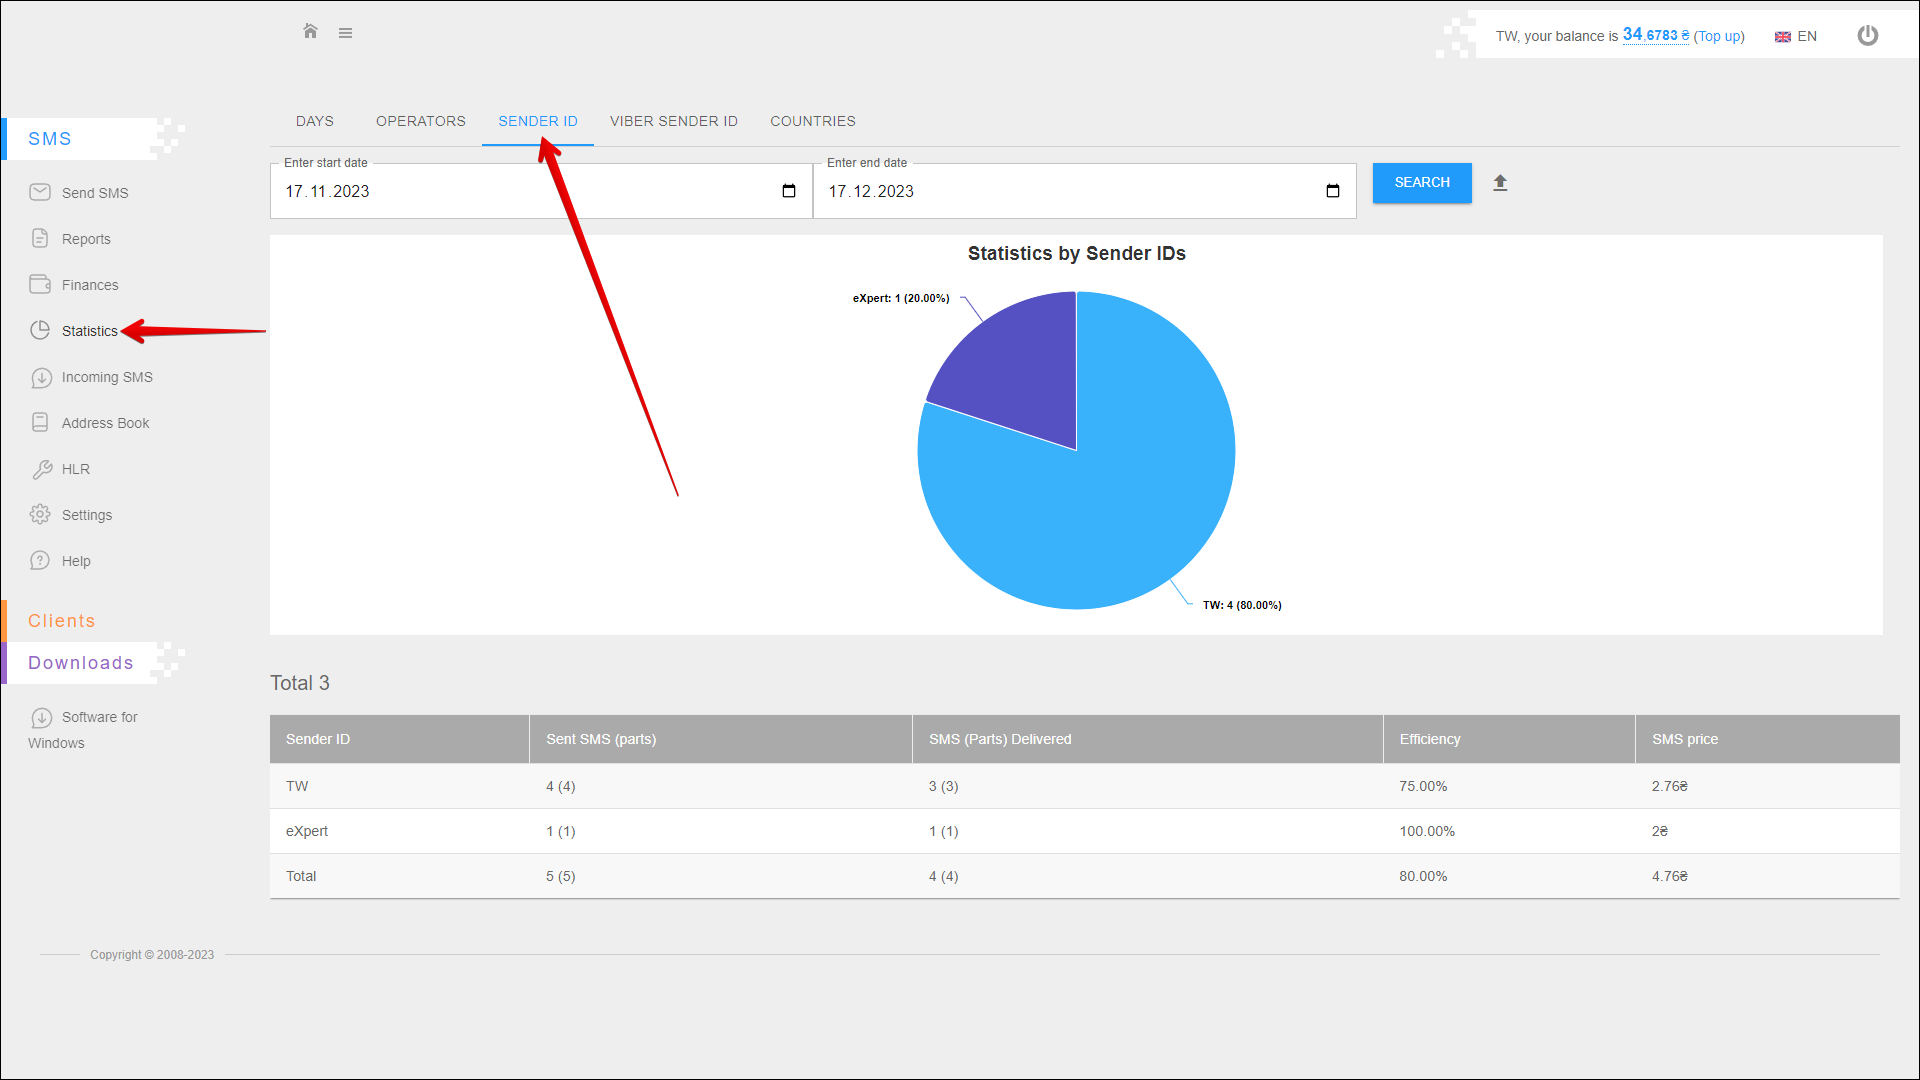
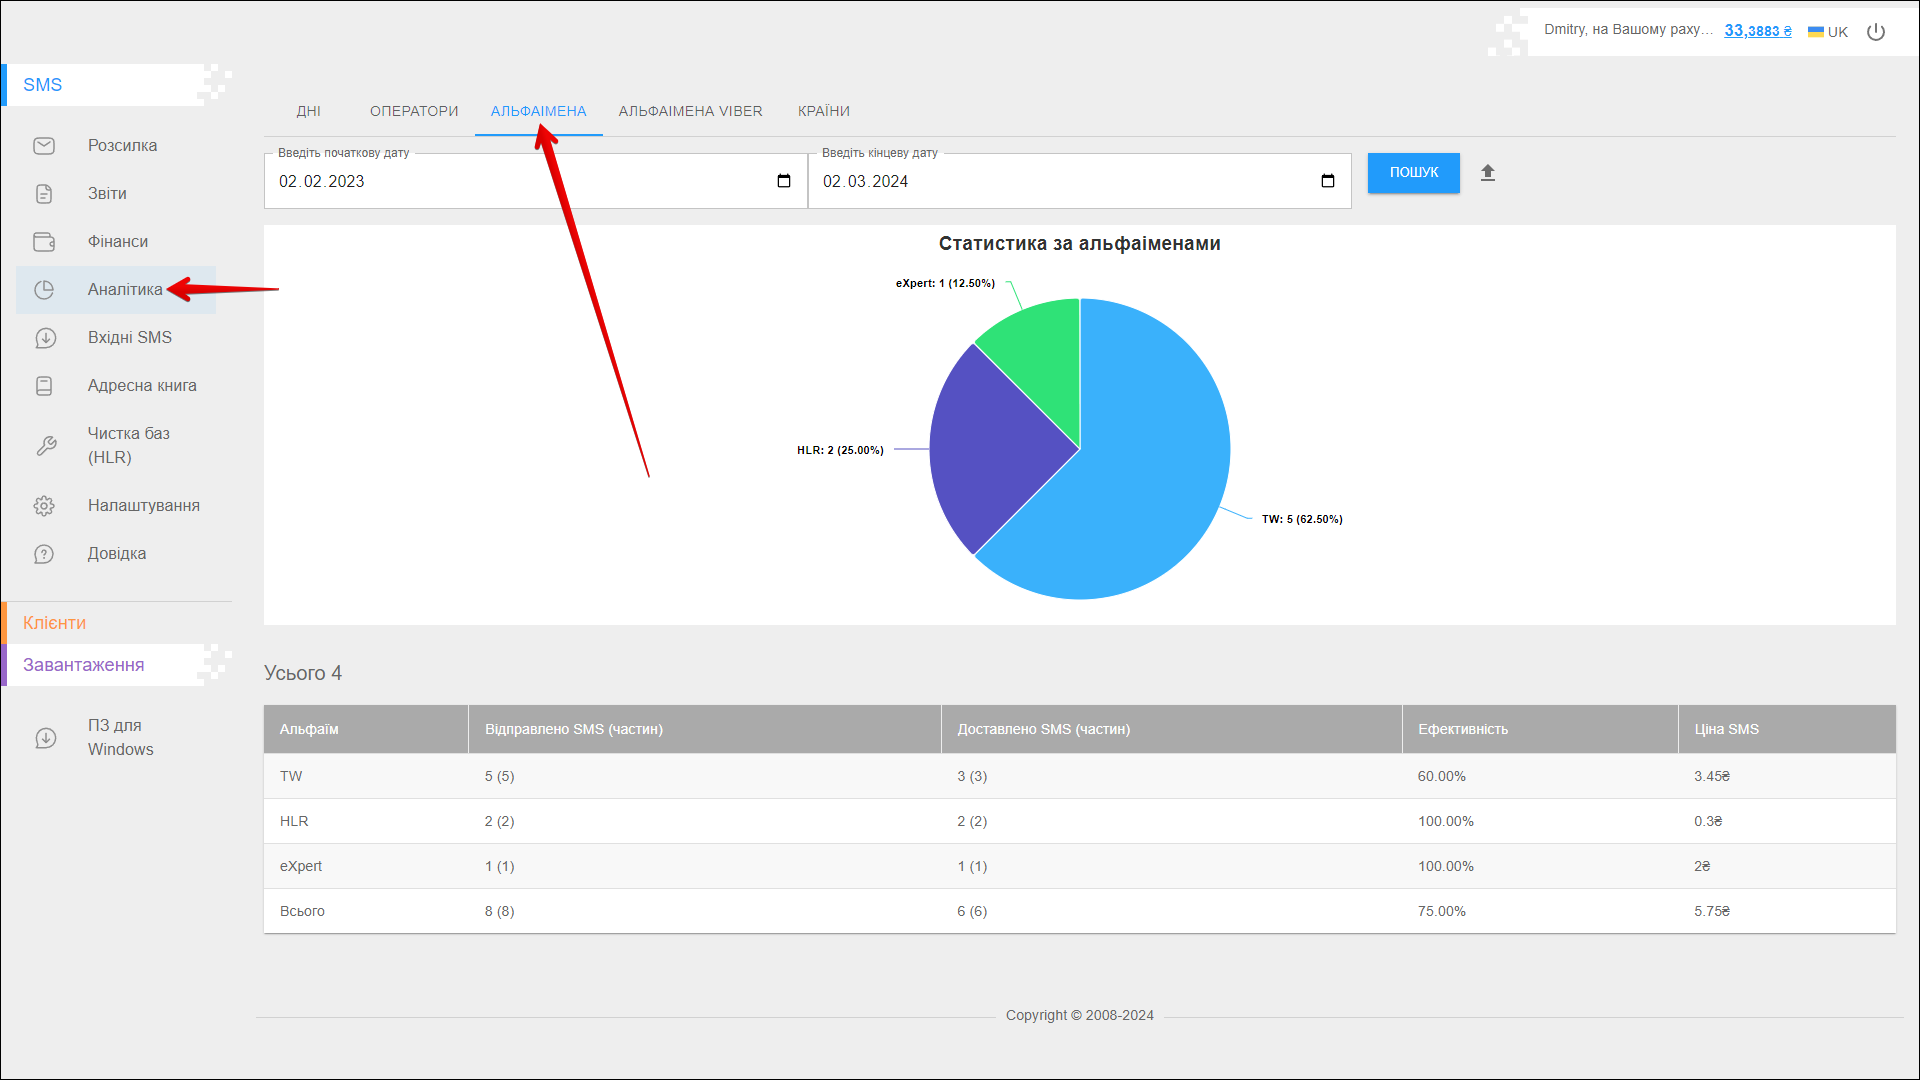
+ SMS-Аналітика-Альфаімена

diff --git a/i18n/uk/docusaurus-plugin-content-docs/current/instruction/sms/statistics/sender_id_statistics.md b/i18n/uk/docusaurus-plugin-content-docs/current/instruction/sms/statistics/sender_id_statistics.md
@@ -3,3 +3,54 @@ id: sender_id_statistics
 title: Альфаімена
 slug: /sender_id_statistics
 ---
+
+У цій вкладці ви можете переглянути статистику по іменам відправника (альфаіменам), а також перевірити ефективність розсилки.
+
+Щоб відкрити дану вкладку, виберіть **SMS** → **Аналітика** у боковому меню та перейдіть на вкладку **АЛЬФАІМЕНА**.
+
+![image1](/img/uk/sms_statistics_sender_id/image1.png)
+
+## Вибір періоду
+
+Щоб вибрати **Період**, за який ви хочете відображати статистику, виконайте наведені нижче дії:
+
+|  №  | Дія |
+| :-: | --- |
+| 1 | Введіть **Початкову дату**. Ви можете ввести дату вручну або вибрати її в календарі, для цього натисніть на іконку **Календар** в правій частині поля |
+| 2 | Введіть **Кінцеву дату**. Ви можете ввести дату вручну або вибрати її в календарі, для цього натисніть на іконку **Календар** в правій частині поля |
+
+Після вибору дати натисніть кнопку **ПОШУК**. Сторінка оновиться, щоб відобразити статистику за вказаний період.
+
+![image2](/img/uk/sms_statistics_sender_id/image2.png)
+
+## Експорт звіту
+
+Щоб експортувати статистичну звітність, натисніть на іконку кнопки **Експорт** праворуч від кнопки **ПОШУК**.
+
+![image3](/img/uk/sms_statistics_sender_id/image3.png)
+
+Відкриється нове спливаюче вікно, де вам потрібно вибрати дані, які ви хочете експортувати. Після вибору даних натисніть кнопку **ЕКСПОРТ** для експорту. Для скасування - кнопку **СКАСУВАТИ**.
+
+![image4](/img/uk/sms_statistics_sender_id/image4.png)
+
+Після натискання кнопки **ЕКСПОРТ** звіт буде збережено на вашому пристрої у файлі **.xlsx**.
+
+## Діаграма статистики
+
+Ця діаграма відображає кількість відправлених повідомлень для кожного альфаімені. Статистика відображається для [вказаного періоду](#вибір-періоду).
+
+![image5](/img/uk/sms_statistics_sender_id/image5.png)
+
+## Таблиця статистики
+
+Всі статистичні дані розташовані в таблиці у відособлених стовпчиках:
+
+![image6](/img/uk/sms_statistics_sender_id/image6.png)
+
+|  №  | Стовпчик | Опис |
+| :-: | -------- | ---- |
+| 1 | **Альфаім'я** | Ім'я відправника |
+| 2 | **Відправлено SMS (частин)** | Кількість надісланих повідомлень (частин) |
+| 3 | **Доставлено SMS (частин)** | Кількість доставлених повідомлень (частин) |
+| 4 | **Ефективність** | Ефективність розсилки (кількість доставлених повідомлень із загальної кількості відправлених) |
+| 5 | **Ціна SMS** | Вартість повідомлення |

diff --git a/docs/instruction/sms/statistics/sender_id_statistics.md b/docs/instruction/sms/statistics/sender_id_statistics.md
@@ -47,10 +47,10 @@ All statistical data are arranged in the table in separate columns:
 
 ![image6](/img/en/sms_statistics_sender_id/image6.png)
 
-|  №  | Description |
-| :-: | ----------- |
-| 1 | **Sender ID** - sender's name (ID) |
-| 2 | **Send SMS (parts)** - number of sent messages (parts) |
-| 3 | **SMS (Parts) Delivered** - number of delivered messages (parts) |
-| 4 | **Efficiency** - mailing efficiency (number of delivered messages out of the total number of sent messages ) |
-| 5 | **SMS Price** - messaging costs |
+|  №  | Column | Description |
+| :-: | ------ | ----------- |
+| 1 | **Sender ID** | Sender's name (ID) |
+| 2 | **Send SMS (parts)** | Number of sent messages (parts) |
+| 3 | **SMS (Parts) Delivered** | Number of delivered messages (parts) |
+| 4 | **Efficiency** | Mailing efficiency (number of delivered messages out of the total number of sent messages ) |
+| 5 | **SMS Price** | Messaging costs |

diff --git a/i18n/uk/docusaurus-plugin-content-docs/current/instruction/sms/statistics/operators.md b/i18n/uk/docusaurus-plugin-content-docs/current/instruction/sms/statistics/operators.md
@@ -6,7 +6,7 @@ slug: /operators
 
 У цій вкладці ви можете переглянути статистику по операторам, а також перевірити ефективність розсилки.
 
-Щоб відкрити дану вкладку, виберіть **SMS** → **Аналітика** у боковому меню та перейдіть на вкладку **ОПЕРАТОРИ** tab.
+Щоб відкрити дану вкладку, виберіть **SMS** → **Аналітика** у боковому меню та перейдіть на вкладку **ОПЕРАТОРИ**.
 
 ![image1](/img/uk/sms_statistics_operators/image1.png)
 
